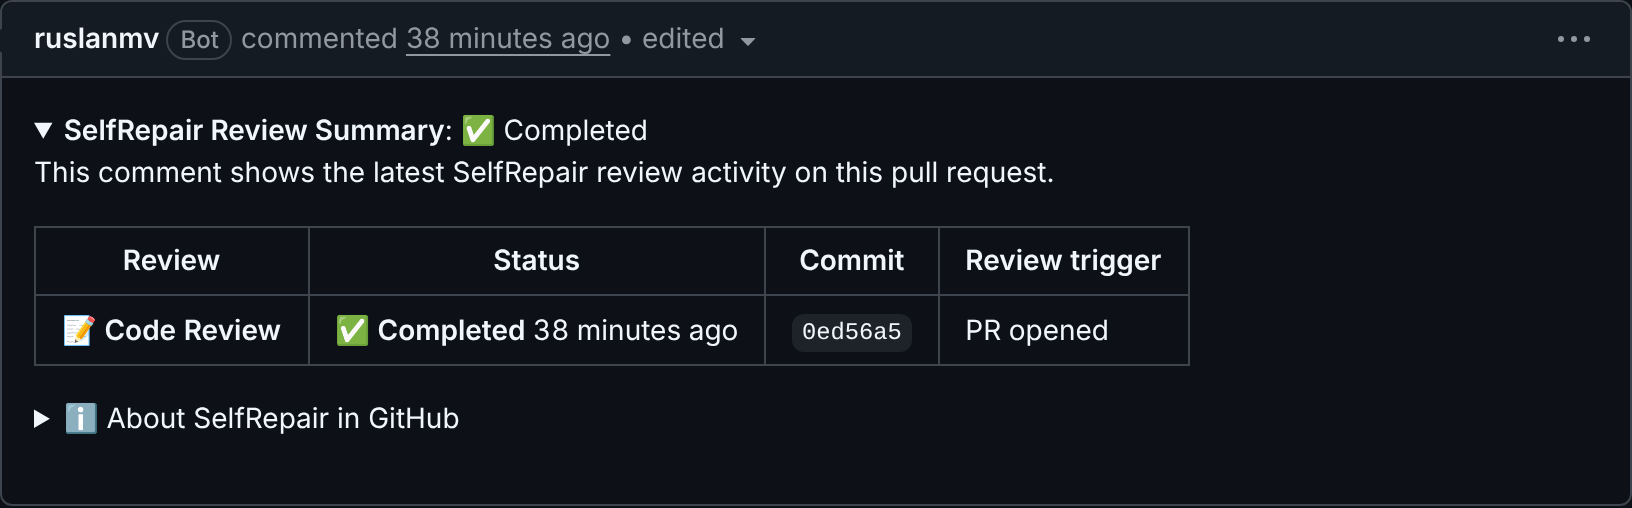
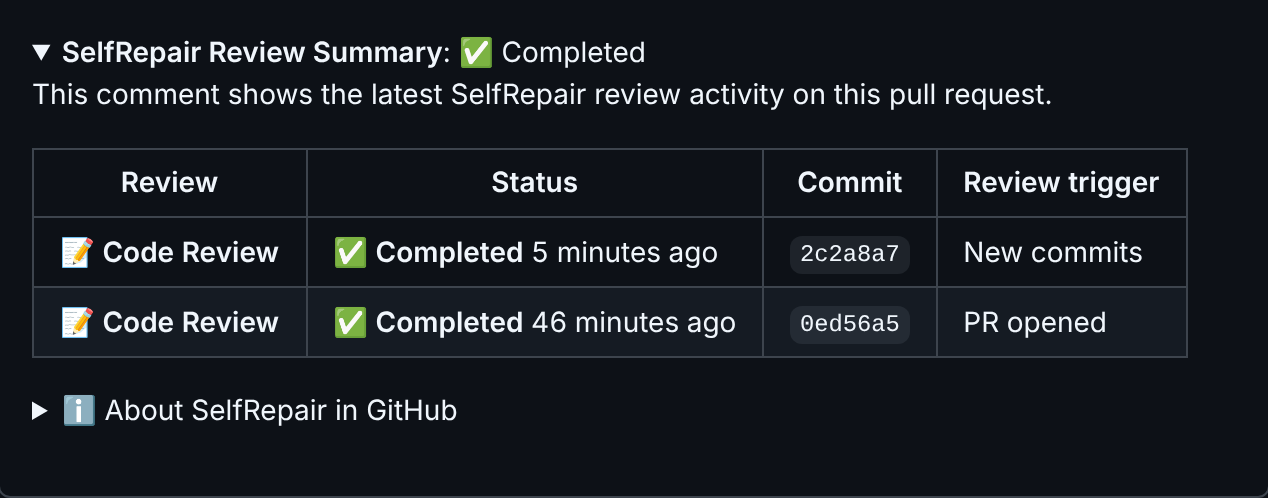
docs(reviewer): real screenshots; priority in annotation titles
Claude-Session: https://claude.ai/code/session_01XyCrA6vthgzibkR5JbN1Sc

diff --git a/tests/unit/reviewer/test_codex_style.py b/tests/unit/reviewer/test_codex_style.py
@@ -525,8 +525,10 @@ def test_annotations_are_plain_text_and_also_noted_comes_before_the_commit() -> 
     payloads = build_payloads(event=_event(), run=_run(), findings=findings, conclusion="success",
                               summary="s", already_published=set(), options=PublishOptions())
     check = next(p for p in payloads if p["kind"] == "check")["body"]
-    message = check["output"]["annotations"][0]["message"]
-    assert message.startswith("P2 · Allow the configuration form") and "<!--" not in message and "**" not in message
+    annotation = check["output"]["annotations"][0]
+    assert annotation["title"].startswith("P2 · Allow the configuration form")
+    message = annotation["message"]
+    assert message.startswith("On short viewports") and "<!--" not in message and "**" not in message
     body = next(p for p in payloads if p["kind"] == "review")["body"]["body"]
     assert body.index("Also noted") < body.index("Reviewed commit") < body.index("About SelfRepair")
 

diff --git a/selfrepair/reviewer/presentation.py b/selfrepair/reviewer/presentation.py
@@ -83,9 +83,14 @@ def inline_comment(finding: FindingRecord) -> str:
     return "\n".join(parts)
 
 
+def annotation_title(finding: FindingRecord) -> str:
+    return f"{priority(finding.severity)} · {' '.join(finding.title.split())}"[:255]
+
+
 def annotation_text(finding: FindingRecord) -> str:
-    """Check-run annotations are plain text: no Markdown, no hidden markers."""
-    parts = [f"{priority(finding.severity)} · {' '.join(finding.title.split())}", "", finding.description.strip()]
+    """Check-run annotations are plain text: no Markdown, no hidden markers.
+    The title (with its priority) is a separate field, so it is not repeated."""
+    parts = [finding.description.strip()]
     if finding.suggested_fix:
         parts += ["", f"Suggested fix: {finding.suggested_fix.strip()}"]
     return "\n".join(parts)

diff --git a/selfrepair/reviewer/publishers.py b/selfrepair/reviewer/publishers.py
@@ -307,7 +307,7 @@ def github_check_body(
                 "end_line": finding.end_line or finding.start_line,
                 "annotation_level": _annotation_level(finding.severity),
                 "message": presentation.annotation_text(finding)[:60000],
-                "title": finding.title[:255],
+                "title": presentation.annotation_title(finding),
             }
         )
     title = _title(conclusion, len(findings))

diff --git a/docs/reviewer/codex-style.md b/docs/reviewer/codex-style.md
@@ -15,7 +15,15 @@ by default). GitPilot writes fixes, and only when a maintainer asks.
 | Review could not finish (model unavailable, diff unreadable, parts unreviewed) | "⚠ Couldn't finish reviewing this commit" with the reason. Never the clean-commit message, never 👍, and the check is not a pass. |
 | Re-review, nothing new | Only the check and status comment change; suggestions already posted are not repeated. |
 
-![Status comment on a real pull request](assets/status-comment.png)
+Screenshots from a real pull request,
+[ruslanmv/selfrepair-review-test#1](https://github.com/ruslanmv/selfrepair-review-test/pull/1),
+reviewed by the Hugging Face Space edition with OllaBridge `free-best`:
+
+![Status comment: one row per review, newest first](assets/status-comment.png)
+
+![Inline suggestion with P0 badge, explanation, suggested fix and feedback prompt](assets/inline-suggestion.png)
+
+![SelfRepair / Review check run with plain-text annotations](assets/check-run.png)
 
 Status comment (one per pull request, edited in place, last five rows, collapsed;
 `<relative-time>` renders as "2 minutes ago" on GitHub):
